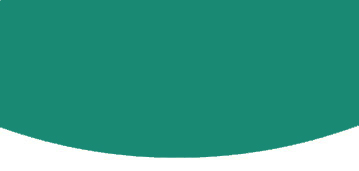
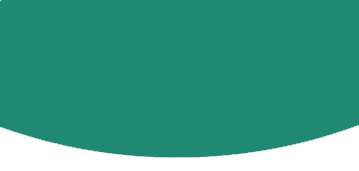
test device

diff --git a/index.html b/index.html
@@ -15,7 +15,7 @@
     <header>
         <nav class="navbar navbar-expand-lg bg-white fixed-top shadow">
             <div class="container">
-                <a class="navbar-brand" href="{{ route('home.index') }}">
+                <a class="navbar-brand" href="">
                     <img src="./images/simpatik-ungu.png" class="" alt="Simpatik" width="190" />
                 </a>
                 <button class="navbar-toggler" type="button" data-bs-toggle="collapse" data-bs-target="#navbarNav"
@@ -53,23 +53,18 @@
             <section id="banner">
                 <div class="banner bg-white text-center">
                     <!-- Landing 1 -->
-                    <div class="d-flex text-center vh-100 align-items-center flex-column bg-custom">
-                        <div class="content mt-150 container">
+                    <div
+                        class="d-flex text-center vh-100 align-items-center flex-column bg-custom justify-content-center">
+                        <div class="content container">
                             <img src="./images/simpatik-ungu.png" alt="" width="700" class="img-fluid img-banner">
                             <div class="d-flex justify-content-center mt-4">
                                 <h2 class="display-4 text-orange title-landing w-80 lead">AKSELERASI HALAL VALUE CHAIN
                                     UNTUK KEMAJUAN BISNIS UMKM</h2>
                             </div>
                             <div class="col-lg-6 mx-auto my-4">
-                                <!-- <p class="lead mb-4">Quickly design and customize responsive mobile-first sites with
-                                    Bootstrap,
-                                    the world’s most popular front-end open source toolkit, featuring Sass variables and
-                                    mixins,
-                                    responsive grid system, extensive prebuilt components, and powerful JavaScript
-                                    plugins.</p> -->
-                                <div class="d-grid gap-2 d-sm-flex justify-content-sm-center py-3 px-sm-5">
+                                <div class="gap-2 d-sm-flex justify-content-sm-center py-3 px-sm-5">
                                     <button type="button"
-                                        class="btn btn-warning btn-md px-4 py-2 gap-3 rounded-3 text-white">Registrasi</button>
+                                        class="btn btn-warning btn-md px-4 py-2 rounded-3 text-white">Registrasi</button>
                                     <button type="button" class="btn btn-outline-warning btn-md px-4 py-2 rounded-3">Get
                                         Poster</button>
                                 </div>
@@ -77,28 +72,8 @@
                         </div>
                     </div>
                     <!-- END landing 1 -->
-
-                    <!-- <img src="./images/simpatik-ungu.png" class="img-fluid img-banner" alt="Simpatik" width="800" />
-                        <h4 class="text-orange mb-5">
-                            Simposium Nasional Perbankan, Akuntansi, dan
-                            Keuangan
-                        </h4>
-                        <div class="button-container my-3">
-                            <a href="https://drive.google.com/drive/folders/1-SShT0trDNOBGMXHXDvPPqmQCKFDfm0i?usp=sharing"
-                                class="btn btn-outline-warning" download="">Get Poster</a>
-                            <a href="https://forms.gle/uc8KgBgrjEoosjCRA" class="btn btn-outline-warning">Registrasi</a>
-                        </div> -->
                 </div>
-                <!-- <img src="./images/banner-simpatik.png" class="img-fluid" alt="Banner Simpatik" /> -->
-
-                <!-- Top wave -->
-                <!-- <svg xmlns="http://www.w3.org/2000/svg" viewBox="0 0 1440 320">
-                    <path fill="#5D3E8C" fill-opacity="1"
-                        d="M0,160L48,138.7C96,117,192,75,288,64C384,53,480,75,576,96C672,117,768,139,864,154.7C960,171,1056,181,1152,186.7C1248,192,1344,192,1392,192L1440,192L1440,0L1392,0C1344,0,1248,0,1152,0C1056,0,960,0,864,0C768,0,672,0,576,0C480,0,384,0,288,0C192,0,96,0,48,0L0,0Z">
-                    </path>
-                </svg> -->
             </section>
-
             <div class="container text-center mt-70">
                 <h1 class="h1 fw-bold text-orange mt-5 mb-3">Call For Paper</h1>
                 <h2 class="text-darker">Akselerasi Halal Value Chain</h2>
@@ -265,13 +240,6 @@
                     </div>
                 </div>
             </div>
-            <!-- Bottom wave -->
-            <!-- <svg xmlns="http://www.w3.org/2000/svg" viewBox="0 0 1440 320">
-                <path fill="#5D3E8C" fill-opacity="1"
-                    d="M0,64L60,69.3C120,75,240,85,360,117.3C480,149,600,203,720,229.3C840,256,960,256,1080,240C1200,224,1320,192,1380,176L1440,160L1440,320L1380,320C1320,320,1200,320,1080,320C960,320,840,320,720,320C600,320,480,320,360,320C240,320,120,320,60,320L0,320Z">
-                </path>
-            </svg> -->
-
             <!-- Sub tema -->
             <div class="container-fluid text-center bg-darker py-5">
                 <h1 class="h1 fw-bold text-orange mt-70 mb-50">Sub Tema</h1>
@@ -360,12 +328,6 @@
                     </div>
                 </div>
             </div>
-            <!-- Top wave -->
-            <!-- <svg xmlns="http://www.w3.org/2000/svg" viewBox="0 0 1440 320">
-                <path fill="#5D3E8C" fill-opacity="1"
-                    d="M0,160L48,138.7C96,117,192,75,288,64C384,53,480,75,576,96C672,117,768,139,864,154.7C960,171,1056,181,1152,186.7C1248,192,1344,192,1392,192L1440,192L1440,0L1392,0C1344,0,1248,0,1152,0C1056,0,960,0,864,0C768,0,672,0,576,0C480,0,384,0,288,0C192,0,96,0,48,0L0,0Z">
-                </path>
-            </svg> -->
             <!-- Timeline -->
             <section class="section container py-5" id="timeline">
                 <div class="text-center pb-5">
@@ -473,12 +435,6 @@
         <!-- End Home -->
         <!-- Publikasi -->
         <section class="services mt-0" id="publikasi">
-            <!-- Bottom wave -->
-            <svg xmlns="http://www.w3.org/2000/svg" viewBox="0 0 1440 320">
-                <path fill="#5D3E8C" fill-opacity="1"
-                    d="M0,64L60,69.3C120,75,240,85,360,117.3C480,149,600,203,720,229.3C840,256,960,256,1080,240C1200,224,1320,192,1380,176L1440,160L1440,320L1380,320C1320,320,1200,320,1080,320C960,320,840,320,720,320C600,320,480,320,360,320C240,320,120,320,60,320L0,320Z">
-                </path>
-            </svg>
             <div class="container-fluid bg-darker py-5">
                 <h1 class="fw-bold text-orange text-center pb-4">
                     Peluang Publikasi
@@ -507,12 +463,6 @@
         <!-- End Publikasi -->
         <!-- Sponsor -->
         <section class="services mt-0" id="publikasi">
-            <!-- Top wave -->
-            <svg xmlns="http://www.w3.org/2000/svg" viewBox="0 0 1440 320">
-                <path fill="#5D3E8C" fill-opacity="1"
-                    d="M0,160L48,138.7C96,117,192,75,288,64C384,53,480,75,576,96C672,117,768,139,864,154.7C960,171,1056,181,1152,186.7C1248,192,1344,192,1392,192L1440,192L1440,0L1392,0C1344,0,1248,0,1152,0C1056,0,960,0,864,0C768,0,672,0,576,0C480,0,384,0,288,0C192,0,96,0,48,0L0,0Z">
-                </path>
-            </svg>
             <div class="container-fluid pb-5">
                 <h1 class="fw-bold text-orange text-center pb-4">
                     Supported by

diff --git a/css/style.css b/css/style.css
@@ -52,7 +52,7 @@
 
 /* Colors */
 .text-orange {
-    color: #198974;
+    color: #1f8974;
 }
 
 .text-darker {
@@ -68,7 +68,7 @@
 }
 
 .bg-orange {
-    background-color: #198974;
+    background-color: #1f8974;
 }
 
 .bg-darker {
@@ -100,7 +100,7 @@ nav {
 }
 
 nav .nav-link:hover {
-    color: #198974;
+    color: #1f8974;
 }
 
 /* img-banner */
@@ -178,7 +178,7 @@ nav .nav-link:hover {
     transform: translateX(-50%);
 }
 .timeline-content-paper {
-    border: 1px solid #198974;
+    border: 1px solid #1f8974;
     position: relative;
     border-radius: 0 0 10px 10px;
     box-shadow: 0px 3px 25px 0px rgba(10, 55, 90, 0.2);
@@ -345,7 +345,7 @@ nav .nav-link:hover {
     color: #000000;
 }
 .site-footer h6 {
-    color: #198974;
+    color: #1f8974;
     font-size: 16px;
     text-transform: uppercase;
     margin-top: 5px;
